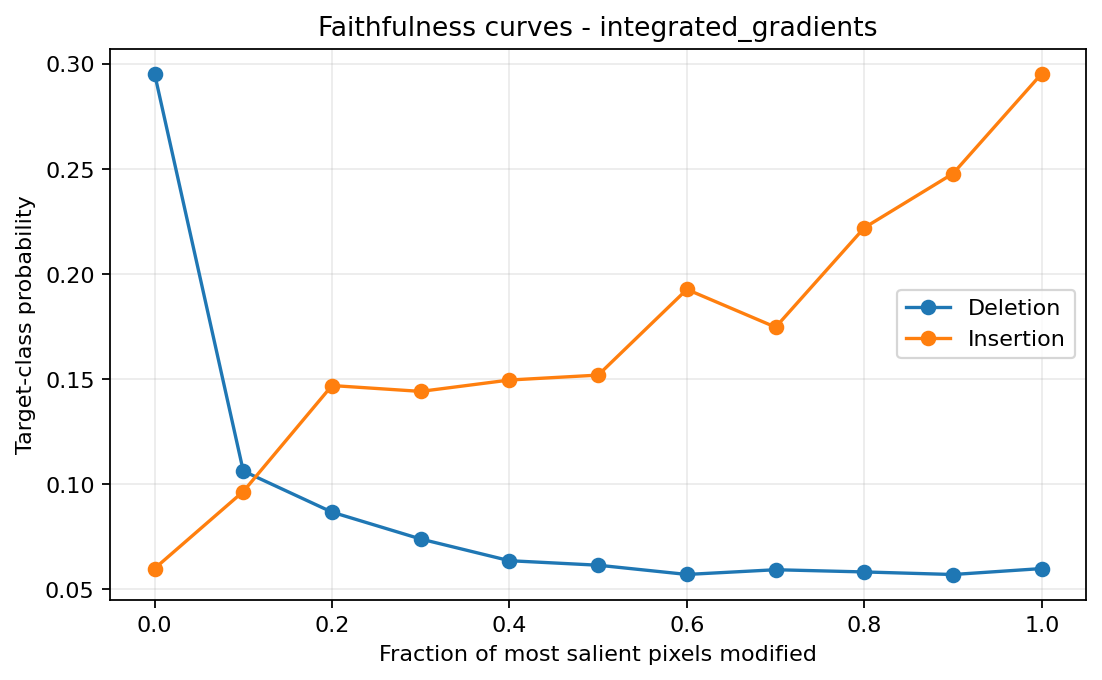
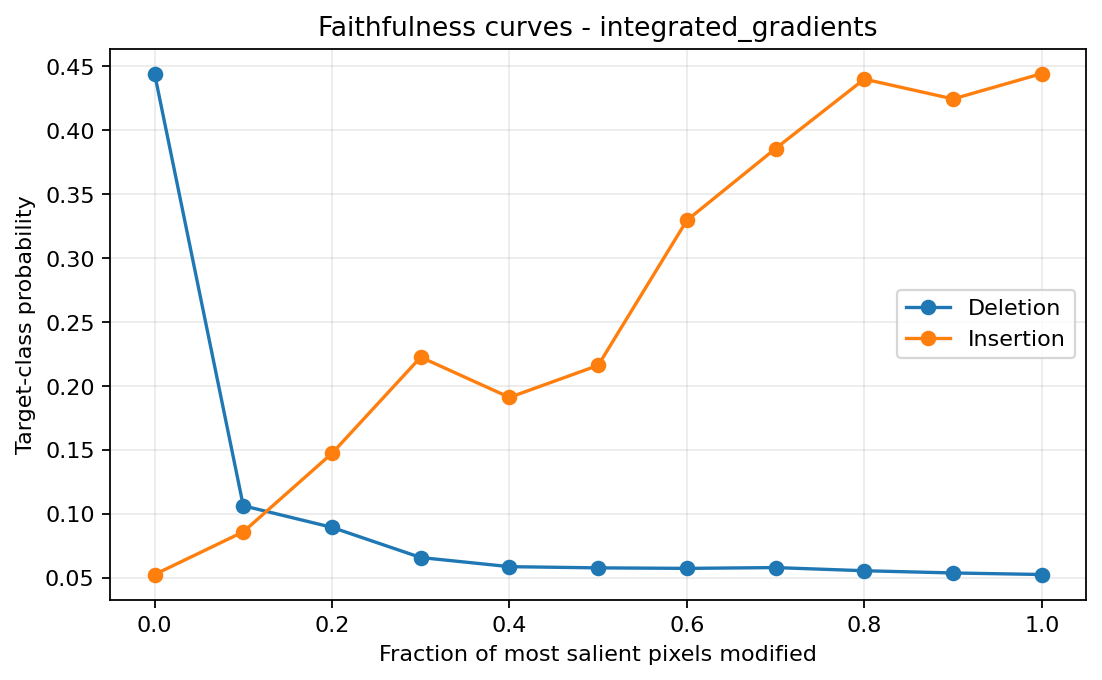
Modified image output

diff --git a/docs/intuitive_explainability.html b/docs/intuitive_explainability.html
@@ -19,6 +19,7 @@
       --accent-soft: #e3eeee;
       --warning: #9a5a2b;
       --warning-soft: #f4e9dc;
+      --page-width: clamp(1180px, 82vw, 1600px);
       --display: "Avenir Next", Avenir, "Helvetica Neue", Arial, sans-serif;
       --body: -apple-system, BlinkMacSystemFont, "Segoe UI", Helvetica, Arial, sans-serif;
       --mono: ui-monospace, SFMono-Regular, Menlo, Consolas, monospace;
@@ -80,7 +81,7 @@
     .toc-inner,
     .report,
     .site-footer-inner {
-      width: min(100%, 1180px);
+      width: min(100%, var(--page-width));
       margin-inline: auto;
     }
 
@@ -104,7 +105,7 @@
 
     .hero-art img {
       display: block;
-      width: min(100%, 410px);
+      width: min(100%, clamp(410px, 27vw, 560px));
       height: auto;
     }
 
@@ -1065,23 +1066,40 @@
 
         <div class="figure-grid">
           <figure>
+            <img src="assets/xai-report/advanced-gradcam-deletion.png"
+              alt="Deletion and insertion faithfulness curves for Grad-CAM." loading="lazy" decoding="async">
+            <figcaption><strong>Figure 16</strong> — Grad-CAM’s target score falls as its most salient pixels are
+              deleted and rises as they are restored.
+            </figcaption>
+          </figure>
+          <figure>
+            <img src="assets/xai-report/advanced-ig-deletion.png"
+              alt="Deletion and insertion faithfulness curves for Integrated Gradients." loading="lazy" decoding="async">
+            <figcaption><strong>Figure 17</strong> — The same deletion–insertion check tests whether Integrated
+              Gradients ranks evidence that affects the target score.
+            </figcaption>
+          </figure>
+        </div>
+
+        <div class="figure-grid">
+          <figure>
             <img src="assets/xai-report/saliency-stress-comparison.png"
               alt="Comparison of saliency stability under several background perturbations." loading="lazy"
               decoding="async">
-            <figcaption><strong>Figure 16</strong> — Stress comparisons show whether attribution moves with context.
+            <figcaption><strong>Figure 18</strong> — Stress comparisons show whether attribution moves with context.
             </figcaption>
           </figure>
           <figure>
             <img src="assets/xai-report/case-summary.png"
               alt="Case study linking a prediction transition, confidence change and saliency stability." loading="lazy"
               decoding="async">
-            <figcaption><strong>Figure 17</strong> — A case study links prediction behaviour with explanation behaviour.
+            <figcaption><strong>Figure 19</strong> — A case study links prediction behaviour with explanation behaviour.
             </figcaption>
           </figure>
           <figure>
             <img src="assets/xai-report/tcav-top-scores.png" alt="Highest TCAV concept scores by animal class."
               loading="lazy" decoding="async">
-            <figcaption><strong>Figure 18</strong> — The current TCAV chart is exploratory; validated CAV outputs would
+            <figcaption><strong>Figure 20</strong> — The current TCAV chart is exploratory; validated CAV outputs would
               add held-out accuracy, random controls and corrected significance.
             </figcaption>
           </figure>
@@ -1089,7 +1107,7 @@
             <img src="assets/xai-report/concept-interventions.png"
               alt="Changes in class predictions after interventions on bottleneck concepts." loading="lazy"
               decoding="async">
-            <figcaption><strong>Figure 19</strong> — Concept interventions expose changes mediated by the bottleneck.
+            <figcaption><strong>Figure 21</strong> — Concept interventions expose changes mediated by the bottleneck.
             </figcaption>
           </figure>
         </div>